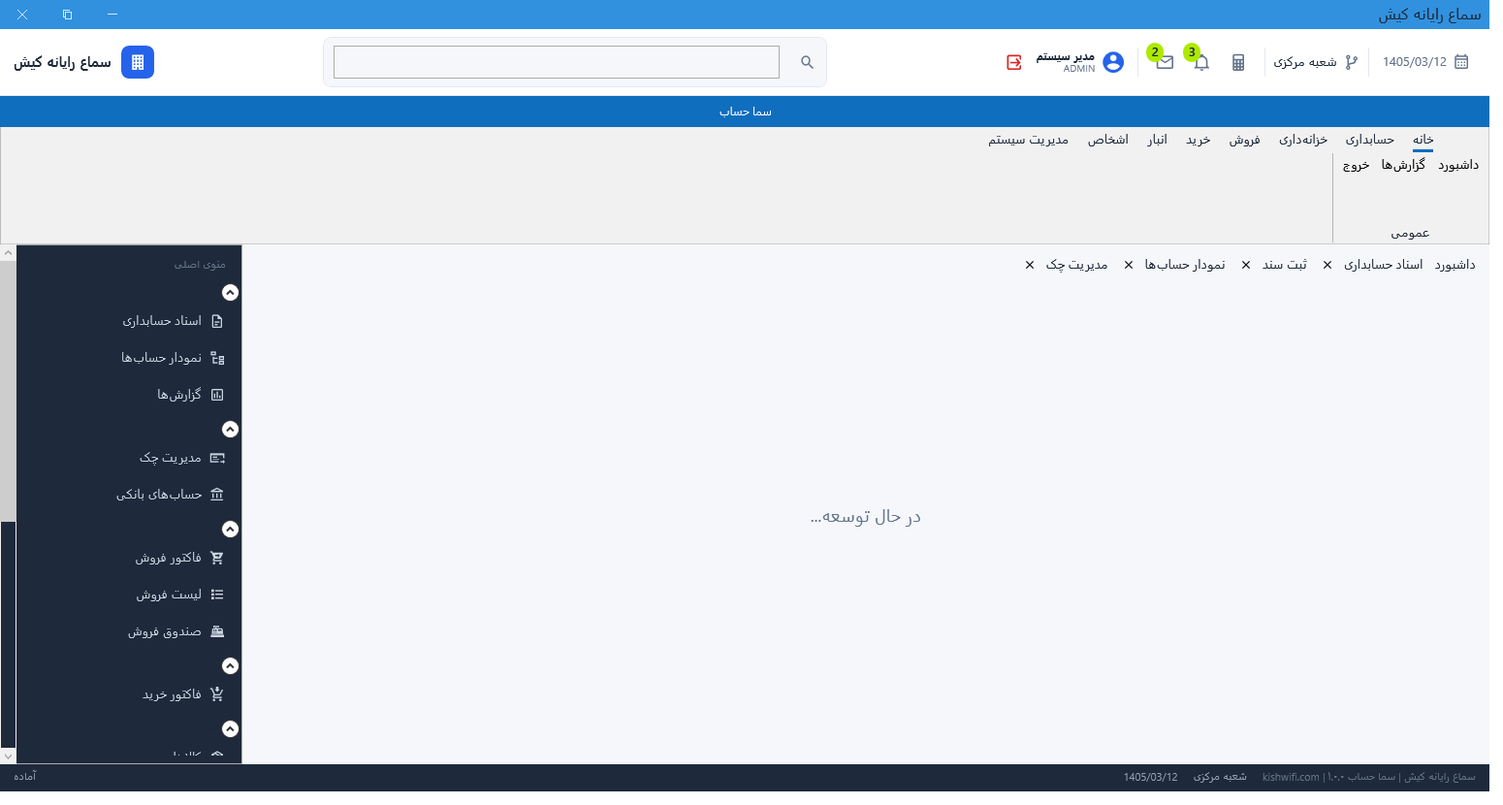
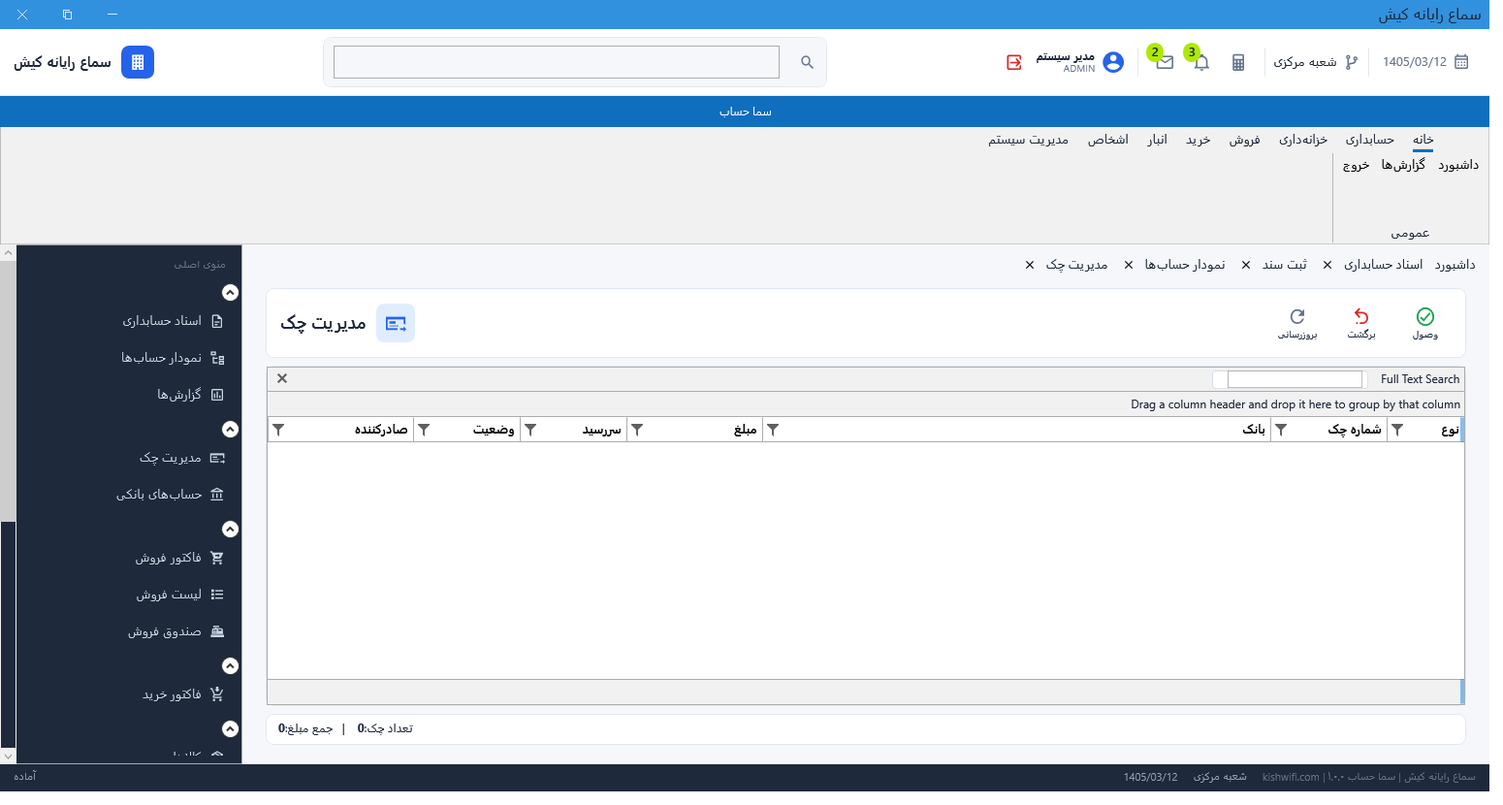
ERP redesign phase 3: full RadGridView features + real list grids
- Accounting voucher grid: add حساب کل/معین/تفصیلی columns (derived from the
  account code segments) + column footers with SumFunction totals on بدهکار/بستانکار
  (classic accounting totals-at-bottom).
- Enable ShowSearchPanel + ShowColumnFooters + Sum aggregates on the main list
  grids (products, suppliers, vouchers, bank accounts, warehouses, ...).
- Replace 4 'under construction' placeholder list screens with full RadGridView
  views bound to their existing data: مشتریان (Customers), مدیریت چک (Cheques),
  کارکنان (Employees), لیست فروش (Sales invoices) — each with search panel,
  grouping, column filters, frozen columns and footer totals.

Verified: builds 0 errors; Customers screen shows real grid with search/group/
filter + footer sum (مانده 137,000,000). Screenshots regenerated.

diff --git a/src/SamaHesab.WPF/Views/Sales/SalesInvoiceListView.xaml b/src/SamaHesab.WPF/Views/Sales/SalesInvoiceListView.xaml
@@ -1,11 +1,72 @@
 <UserControl x:Class="SamaHesab.WPF.Views.Sales.SalesInvoiceListView"
              xmlns="http://schemas.microsoft.com/winfx/2006/xaml/presentation"
              xmlns:x="http://schemas.microsoft.com/winfx/2006/xaml"
+             xmlns:materialDesign="http://materialdesigninxaml.net/winfx/xaml/themes"
+             xmlns:telerik="http://schemas.telerik.com/2008/xaml/presentation"
              Background="{DynamicResource AppBackground}"
+             FontFamily="{StaticResource VazirFont}"
              FlowDirection="RightToLeft">
-    <Grid>
-        <TextBlock Text="در حال توسعه..." HorizontalAlignment="Center" VerticalAlignment="Center"
-                   FontFamily="{StaticResource VazirFont}" FontSize="18"
-                   Foreground="{DynamicResource SecondaryText}"/>
+    <Grid Margin="6">
+        <Grid.RowDefinitions>
+            <RowDefinition Height="Auto"/>
+            <RowDefinition Height="*"/>
+            <RowDefinition Height="Auto"/>
+        </Grid.RowDefinitions>
+
+        <Border Grid.Row="0" Style="{StaticResource FormSectionCard}" Padding="8">
+            <DockPanel>
+                <StackPanel DockPanel.Dock="Right" Orientation="Horizontal" VerticalAlignment="Center" Margin="6,0">
+                    <Border Width="40" Height="40" CornerRadius="8" Background="#E0EDFF">
+                        <materialDesign:PackIcon Kind="FormatListBulletedSquare" Width="22" Height="22"
+                                                 Foreground="{DynamicResource PrimaryAccent}"
+                                                 HorizontalAlignment="Center" VerticalAlignment="Center"/>
+                    </Border>
+                    <TextBlock Text="لیست فاکتورهای فروش" FontSize="18" FontWeight="Bold" VerticalAlignment="Center" Margin="10,0,0,0"/>
+                </StackPanel>
+                <StackPanel DockPanel.Dock="Left" Orientation="Horizontal">
+                    <Button Style="{StaticResource ToolbarButton}" Command="{Binding NewInvoiceCommand}">
+                        <StackPanel><materialDesign:PackIcon Kind="CartPlus" Width="22" Height="22" HorizontalAlignment="Center" Foreground="{DynamicResource PrimaryAccent}"/><TextBlock Text="فاکتور جدید" FontSize="10" TextAlignment="Center" Margin="0,2,0,0"/></StackPanel>
+                    </Button>
+                    <Button Style="{StaticResource ToolbarButton}" Command="{Binding PrintCommand}">
+                        <StackPanel><materialDesign:PackIcon Kind="PrinterOutline" Width="22" Height="22" HorizontalAlignment="Center" Foreground="{DynamicResource SecondaryText}"/><TextBlock Text="چاپ" FontSize="10" TextAlignment="Center" Margin="0,2,0,0"/></StackPanel>
+                    </Button>
+                    <Button Style="{StaticResource ToolbarButton}" Command="{Binding ExportExcelCommand}">
+                        <StackPanel><materialDesign:PackIcon Kind="MicrosoftExcel" Width="22" Height="22" HorizontalAlignment="Center" Foreground="{DynamicResource SuccessColor}"/><TextBlock Text="خروجی اکسل" FontSize="10" TextAlignment="Center" Margin="0,2,0,0"/></StackPanel>
+                    </Button>
+                </StackPanel>
+            </DockPanel>
+        </Border>
+
+        <Border Grid.Row="1" Style="{StaticResource FormSectionCard}" Padding="0">
+            <telerik:RadGridView ItemsSource="{Binding Invoices}" AutoGenerateColumns="False"
+                                 ShowSearchPanel="True" IsReadOnly="True" CanUserFreezeColumns="True"
+                                 ShowGroupPanel="True" ShowColumnFooters="True" RowIndicatorVisibility="Collapsed"
+                                 FontFamily="{StaticResource VazirFont}">
+                <telerik:RadGridView.Columns>
+                    <telerik:GridViewDataColumn Header="شماره" DataMemberBinding="{Binding Number}" Width="110"/>
+                    <telerik:GridViewDataColumn Header="تاریخ" DataMemberBinding="{Binding Date}" Width="110"/>
+                    <telerik:GridViewDataColumn Header="مشتری" DataMemberBinding="{Binding CustomerName}" Width="*"/>
+                    <telerik:GridViewDataColumn Header="مبلغ کل" DataMemberBinding="{Binding Total}" DataFormatString="{}{0:#,##0}" Width="140">
+                        <telerik:GridViewDataColumn.AggregateFunctions>
+                            <telerik:SumFunction ResultFormatString="{}{0:#,##0}"/>
+                        </telerik:GridViewDataColumn.AggregateFunctions>
+                    </telerik:GridViewDataColumn>
+                    <telerik:GridViewDataColumn Header="پرداختی" DataMemberBinding="{Binding Paid}" DataFormatString="{}{0:#,##0}" Width="130"/>
+                    <telerik:GridViewDataColumn Header="مانده" DataMemberBinding="{Binding Remain}" DataFormatString="{}{0:#,##0}" Width="130">
+                        <telerik:GridViewDataColumn.AggregateFunctions>
+                            <telerik:SumFunction ResultFormatString="{}{0:#,##0}"/>
+                        </telerik:GridViewDataColumn.AggregateFunctions>
+                    </telerik:GridViewDataColumn>
+                    <telerik:GridViewDataColumn Header="وضعیت" DataMemberBinding="{Binding Status}" Width="100"/>
+                </telerik:RadGridView.Columns>
+            </telerik:RadGridView>
+        </Border>
+
+        <Border Grid.Row="2" Style="{StaticResource FormSectionCard}" Padding="12,8">
+            <TextBlock FontSize="12" HorizontalAlignment="Right">
+                <Run Text="تعداد فاکتور:"/><Run Text="{Binding TotalCount}" FontWeight="Bold"/>
+                <Run Text="   |   جمع مبلغ:"/><Run Text="{Binding TotalAmount, StringFormat={}{0:#,##0}}" FontWeight="Bold"/>
+            </TextBlock>
+        </Border>
     </Grid>
 </UserControl>

diff --git a/src/SamaHesab.WPF/Views/CRM/CustomerListView.xaml b/src/SamaHesab.WPF/Views/CRM/CustomerListView.xaml
@@ -1,11 +1,78 @@
 <UserControl x:Class="SamaHesab.WPF.Views.CRM.CustomerListView"
              xmlns="http://schemas.microsoft.com/winfx/2006/xaml/presentation"
              xmlns:x="http://schemas.microsoft.com/winfx/2006/xaml"
+             xmlns:materialDesign="http://materialdesigninxaml.net/winfx/xaml/themes"
+             xmlns:telerik="http://schemas.telerik.com/2008/xaml/presentation"
              Background="{DynamicResource AppBackground}"
+             FontFamily="{StaticResource VazirFont}"
              FlowDirection="RightToLeft">
-    <Grid>
-        <TextBlock Text="در حال توسعه..." HorizontalAlignment="Center" VerticalAlignment="Center"
-                   FontFamily="{StaticResource VazirFont}" FontSize="18"
-                   Foreground="{DynamicResource SecondaryText}"/>
+    <Grid Margin="6">
+        <Grid.RowDefinitions>
+            <RowDefinition Height="Auto"/>
+            <RowDefinition Height="Auto"/>
+            <RowDefinition Height="*"/>
+            <RowDefinition Height="Auto"/>
+        </Grid.RowDefinitions>
+
+        <Border Grid.Row="0" Style="{StaticResource FormSectionCard}" Padding="8">
+            <DockPanel>
+                <StackPanel DockPanel.Dock="Right" Orientation="Horizontal" VerticalAlignment="Center" Margin="6,0">
+                    <Border Width="40" Height="40" CornerRadius="8" Background="#E0EDFF">
+                        <materialDesign:PackIcon Kind="AccountGroupOutline" Width="22" Height="22"
+                                                 Foreground="{DynamicResource PrimaryAccent}"
+                                                 HorizontalAlignment="Center" VerticalAlignment="Center"/>
+                    </Border>
+                    <TextBlock Text="مشتریان" FontSize="18" FontWeight="Bold" VerticalAlignment="Center" Margin="10,0,0,0"/>
+                </StackPanel>
+                <StackPanel DockPanel.Dock="Left" Orientation="Horizontal">
+                    <Button Style="{StaticResource ToolbarButton}" Command="{Binding NewCustomerCommand}">
+                        <StackPanel><materialDesign:PackIcon Kind="AccountPlusOutline" Width="22" Height="22" HorizontalAlignment="Center" Foreground="{DynamicResource PrimaryAccent}"/><TextBlock Text="مشتری جدید" FontSize="10" TextAlignment="Center" Margin="0,2,0,0"/></StackPanel>
+                    </Button>
+                    <Button Style="{StaticResource ToolbarButton}" Command="{Binding ExportCommand}">
+                        <StackPanel><materialDesign:PackIcon Kind="MicrosoftExcel" Width="22" Height="22" HorizontalAlignment="Center" Foreground="{DynamicResource SuccessColor}"/><TextBlock Text="خروجی اکسل" FontSize="10" TextAlignment="Center" Margin="0,2,0,0"/></StackPanel>
+                    </Button>
+                </StackPanel>
+            </DockPanel>
+        </Border>
+
+        <Border Grid.Row="1" Style="{StaticResource FormSectionCard}">
+            <DockPanel>
+                <Button DockPanel.Dock="Left" Style="{StaticResource SecondaryButton}" Height="36" Width="44"
+                        Margin="6,0,0,0" Command="{Binding SearchCommand}">
+                    <materialDesign:PackIcon Kind="Magnify" Width="18" Height="18"/>
+                </Button>
+                <StackPanel>
+                    <TextBlock Text="جستجو (کد / نام / موبایل)" Style="{StaticResource FieldCaption}"/>
+                    <TextBox Text="{Binding SearchText, UpdateSourceTrigger=PropertyChanged}">
+                        <TextBox.InputBindings><KeyBinding Key="Return" Command="{Binding SearchCommand}"/></TextBox.InputBindings>
+                    </TextBox>
+                </StackPanel>
+            </DockPanel>
+        </Border>
+
+        <Border Grid.Row="2" Style="{StaticResource FormSectionCard}" Padding="0">
+            <telerik:RadGridView ItemsSource="{Binding Customers}" AutoGenerateColumns="False"
+                                 ShowSearchPanel="True" IsReadOnly="True" CanUserFreezeColumns="True"
+                                 ShowGroupPanel="True" ShowColumnFooters="True" RowIndicatorVisibility="Collapsed"
+                                 FontFamily="{StaticResource VazirFont}">
+                <telerik:RadGridView.Columns>
+                    <telerik:GridViewDataColumn Header="کد" DataMemberBinding="{Binding Code}" Width="90"/>
+                    <telerik:GridViewDataColumn Header="نام / شرکت" DataMemberBinding="{Binding Name}" Width="2*"/>
+                    <telerik:GridViewDataColumn Header="موبایل" DataMemberBinding="{Binding Mobile}" Width="130"/>
+                    <telerik:GridViewDataColumn Header="سطح قیمت" DataMemberBinding="{Binding PriceLevel}" Width="100"/>
+                    <telerik:GridViewDataColumn Header="مانده حساب" DataMemberBinding="{Binding Balance}" DataFormatString="{}{0:#,##0}" Width="150">
+                        <telerik:GridViewDataColumn.AggregateFunctions>
+                            <telerik:SumFunction ResultFormatString="{}{0:#,##0}"/>
+                        </telerik:GridViewDataColumn.AggregateFunctions>
+                    </telerik:GridViewDataColumn>
+                </telerik:RadGridView.Columns>
+            </telerik:RadGridView>
+        </Border>
+
+        <Border Grid.Row="3" Style="{StaticResource FormSectionCard}" Padding="12,8">
+            <TextBlock FontSize="12" HorizontalAlignment="Right">
+                <Run Text="تعداد مشتریان:"/><Run Text="{Binding TotalCount}" FontWeight="Bold"/>
+            </TextBlock>
+        </Border>
     </Grid>
 </UserControl>

diff --git a/src/SamaHesab.WPF/Views/Accounting/ChequeListView.xaml b/src/SamaHesab.WPF/Views/Accounting/ChequeListView.xaml
@@ -1,11 +1,68 @@
 <UserControl x:Class="SamaHesab.WPF.Views.Accounting.ChequeListView"
              xmlns="http://schemas.microsoft.com/winfx/2006/xaml/presentation"
              xmlns:x="http://schemas.microsoft.com/winfx/2006/xaml"
+             xmlns:materialDesign="http://materialdesigninxaml.net/winfx/xaml/themes"
+             xmlns:telerik="http://schemas.telerik.com/2008/xaml/presentation"
              Background="{DynamicResource AppBackground}"
+             FontFamily="{StaticResource VazirFont}"
              FlowDirection="RightToLeft">
-    <Grid>
-        <TextBlock Text="در حال توسعه..." HorizontalAlignment="Center" VerticalAlignment="Center"
-                   FontFamily="{StaticResource VazirFont}" FontSize="18"
-                   Foreground="{DynamicResource SecondaryText}"/>
+    <Grid Margin="6">
+        <Grid.RowDefinitions>
+            <RowDefinition Height="Auto"/>
+            <RowDefinition Height="*"/>
+            <RowDefinition Height="Auto"/>
+        </Grid.RowDefinitions>
+
+        <Border Grid.Row="0" Style="{StaticResource FormSectionCard}" Padding="8">
+            <DockPanel>
+                <StackPanel DockPanel.Dock="Right" Orientation="Horizontal" VerticalAlignment="Center" Margin="6,0">
+                    <Border Width="40" Height="40" CornerRadius="8" Background="#E0EDFF">
+                        <materialDesign:PackIcon Kind="CheckbookArrowRight" Width="22" Height="22"
+                                                 Foreground="{DynamicResource PrimaryAccent}"
+                                                 HorizontalAlignment="Center" VerticalAlignment="Center"/>
+                    </Border>
+                    <TextBlock Text="مدیریت چک" FontSize="18" FontWeight="Bold" VerticalAlignment="Center" Margin="10,0,0,0"/>
+                </StackPanel>
+                <StackPanel DockPanel.Dock="Left" Orientation="Horizontal">
+                    <Button Style="{StaticResource ToolbarButton}" Command="{Binding ClearChequeCommand}">
+                        <StackPanel><materialDesign:PackIcon Kind="CheckCircleOutline" Width="22" Height="22" HorizontalAlignment="Center" Foreground="{DynamicResource SuccessColor}"/><TextBlock Text="وصول" FontSize="10" TextAlignment="Center" Margin="0,2,0,0"/></StackPanel>
+                    </Button>
+                    <Button Style="{StaticResource ToolbarButton}" Command="{Binding ReturnChequeCommand}">
+                        <StackPanel><materialDesign:PackIcon Kind="UndoVariant" Width="22" Height="22" HorizontalAlignment="Center" Foreground="{DynamicResource DangerColor}"/><TextBlock Text="برگشت" FontSize="10" TextAlignment="Center" Margin="0,2,0,0"/></StackPanel>
+                    </Button>
+                    <Button Style="{StaticResource ToolbarButton}" Command="{Binding SearchCommand}">
+                        <StackPanel><materialDesign:PackIcon Kind="Refresh" Width="22" Height="22" HorizontalAlignment="Center" Foreground="{DynamicResource SecondaryText}"/><TextBlock Text="بروزرسانی" FontSize="10" TextAlignment="Center" Margin="0,2,0,0"/></StackPanel>
+                    </Button>
+                </StackPanel>
+            </DockPanel>
+        </Border>
+
+        <Border Grid.Row="1" Style="{StaticResource FormSectionCard}" Padding="0">
+            <telerik:RadGridView ItemsSource="{Binding Cheques}" AutoGenerateColumns="False"
+                                 ShowSearchPanel="True" IsReadOnly="True" CanUserFreezeColumns="True"
+                                 ShowGroupPanel="True" ShowColumnFooters="True" RowIndicatorVisibility="Collapsed"
+                                 FontFamily="{StaticResource VazirFont}">
+                <telerik:RadGridView.Columns>
+                    <telerik:GridViewDataColumn Header="نوع" DataMemberBinding="{Binding Type}" Width="80"/>
+                    <telerik:GridViewDataColumn Header="شماره چک" DataMemberBinding="{Binding Number}" Width="120"/>
+                    <telerik:GridViewDataColumn Header="بانک" DataMemberBinding="{Binding Bank}" Width="*"/>
+                    <telerik:GridViewDataColumn Header="مبلغ" DataMemberBinding="{Binding Amount}" DataFormatString="{}{0:#,##0}" Width="140">
+                        <telerik:GridViewDataColumn.AggregateFunctions>
+                            <telerik:SumFunction ResultFormatString="{}{0:#,##0}"/>
+                        </telerik:GridViewDataColumn.AggregateFunctions>
+                    </telerik:GridViewDataColumn>
+                    <telerik:GridViewDataColumn Header="سررسید" DataMemberBinding="{Binding DueDate}" Width="110"/>
+                    <telerik:GridViewDataColumn Header="وضعیت" DataMemberBinding="{Binding Status}" Width="110"/>
+                    <telerik:GridViewDataColumn Header="صادرکننده" DataMemberBinding="{Binding IssuedBy}" Width="150"/>
+                </telerik:RadGridView.Columns>
+            </telerik:RadGridView>
+        </Border>
+
+        <Border Grid.Row="2" Style="{StaticResource FormSectionCard}" Padding="12,8">
+            <TextBlock FontSize="12" HorizontalAlignment="Right">
+                <Run Text="تعداد چک:"/><Run Text="{Binding TotalCount}" FontWeight="Bold"/>
+                <Run Text="   |   جمع مبلغ:"/><Run Text="{Binding TotalAmount, StringFormat={}{0:#,##0}}" FontWeight="Bold"/>
+            </TextBlock>
+        </Border>
     </Grid>
 </UserControl>

diff --git a/src/SamaHesab.WPF/Views/HRM/EmployeeListView.xaml b/src/SamaHesab.WPF/Views/HRM/EmployeeListView.xaml
@@ -1,11 +1,60 @@
 <UserControl x:Class="SamaHesab.WPF.Views.HRM.EmployeeListView"
              xmlns="http://schemas.microsoft.com/winfx/2006/xaml/presentation"
              xmlns:x="http://schemas.microsoft.com/winfx/2006/xaml"
+             xmlns:materialDesign="http://materialdesigninxaml.net/winfx/xaml/themes"
+             xmlns:telerik="http://schemas.telerik.com/2008/xaml/presentation"
              Background="{DynamicResource AppBackground}"
+             FontFamily="{StaticResource VazirFont}"
              FlowDirection="RightToLeft">
-    <Grid>
-        <TextBlock Text="در حال توسعه..." HorizontalAlignment="Center" VerticalAlignment="Center"
-                   FontFamily="{StaticResource VazirFont}" FontSize="18"
-                   Foreground="{DynamicResource SecondaryText}"/>
+    <Grid Margin="6">
+        <Grid.RowDefinitions>
+            <RowDefinition Height="Auto"/>
+            <RowDefinition Height="*"/>
+            <RowDefinition Height="Auto"/>
+        </Grid.RowDefinitions>
+
+        <Border Grid.Row="0" Style="{StaticResource FormSectionCard}" Padding="8">
+            <DockPanel>
+                <StackPanel DockPanel.Dock="Right" Orientation="Horizontal" VerticalAlignment="Center" Margin="6,0">
+                    <Border Width="40" Height="40" CornerRadius="8" Background="#E0EDFF">
+                        <materialDesign:PackIcon Kind="AccountTieOutline" Width="22" Height="22"
+                                                 Foreground="{DynamicResource PrimaryAccent}"
+                                                 HorizontalAlignment="Center" VerticalAlignment="Center"/>
+                    </Border>
+                    <TextBlock Text="کارکنان" FontSize="18" FontWeight="Bold" VerticalAlignment="Center" Margin="10,0,0,0"/>
+                </StackPanel>
+                <StackPanel DockPanel.Dock="Left" Orientation="Horizontal">
+                    <Button Style="{StaticResource ToolbarButton}" Command="{Binding AddNewCommand}">
+                        <StackPanel><materialDesign:PackIcon Kind="AccountPlusOutline" Width="22" Height="22" HorizontalAlignment="Center" Foreground="{DynamicResource PrimaryAccent}"/><TextBlock Text="کارمند جدید" FontSize="10" TextAlignment="Center" Margin="0,2,0,0"/></StackPanel>
+                    </Button>
+                </StackPanel>
+            </DockPanel>
+        </Border>
+
+        <Border Grid.Row="1" Style="{StaticResource FormSectionCard}" Padding="0">
+            <telerik:RadGridView ItemsSource="{Binding Employees}" AutoGenerateColumns="False"
+                                 ShowSearchPanel="True" IsReadOnly="True" CanUserFreezeColumns="True"
+                                 ShowGroupPanel="True" ShowColumnFooters="True" RowIndicatorVisibility="Collapsed"
+                                 FontFamily="{StaticResource VazirFont}">
+                <telerik:RadGridView.Columns>
+                    <telerik:GridViewDataColumn Header="کد" DataMemberBinding="{Binding Code}" Width="80"/>
+                    <telerik:GridViewDataColumn Header="نام" DataMemberBinding="{Binding FirstName}" Width="*"/>
+                    <telerik:GridViewDataColumn Header="نام خانوادگی" DataMemberBinding="{Binding LastName}" Width="*"/>
+                    <telerik:GridViewDataColumn Header="کد ملی" DataMemberBinding="{Binding NationalCode}" Width="120"/>
+                    <telerik:GridViewDataColumn Header="موبایل" DataMemberBinding="{Binding Mobile}" Width="120"/>
+                    <telerik:GridViewDataColumn Header="نوع قرارداد" DataMemberBinding="{Binding ContractType}" Width="100"/>
+                    <telerik:GridViewDataColumn Header="تاریخ استخدام" DataMemberBinding="{Binding HireDate}" Width="110"/>
+                    <telerik:GridViewDataColumn Header="حقوق پایه" DataMemberBinding="{Binding BaseSalary}" DataFormatString="{}{0:#,##0}" Width="140">
+                        <telerik:GridViewDataColumn.AggregateFunctions>
+                            <telerik:SumFunction ResultFormatString="{}{0:#,##0}"/>
+                        </telerik:GridViewDataColumn.AggregateFunctions>
+                    </telerik:GridViewDataColumn>
+                </telerik:RadGridView.Columns>
+            </telerik:RadGridView>
+        </Border>
+
+        <Border Grid.Row="2" Style="{StaticResource FormSectionCard}" Padding="12,8">
+            <TextBlock FontSize="12" HorizontalAlignment="Right" Text="فهرست کارکنان فعال"/>
+        </Border>
     </Grid>
 </UserControl>

diff --git a/src/SamaHesab.WPF/Views/Accounting/VoucherEditView.xaml b/src/SamaHesab.WPF/Views/Accounting/VoucherEditView.xaml
@@ -137,14 +137,24 @@
         <Border Grid.Row="3" Style="{StaticResource FormSectionCard}" Padding="0">
             <telerik:RadGridView ItemsSource="{Binding Items}" AutoGenerateColumns="False"
                       CanUserInsertRows="False" CanUserDeleteRows="False" RowIndicatorVisibility="Collapsed"
-                      ShowGroupPanel="False" FontFamily="{StaticResource VazirFont}">
+                      ShowGroupPanel="False" ShowColumnFooters="True" FontFamily="{StaticResource VazirFont}">
                 <telerik:RadGridView.Columns>
-                    <telerik:GridViewDataColumn Header="ردیف" DataMemberBinding="{Binding RowNumber}" Width="50" IsReadOnly="True"/>
-                    <telerik:GridViewDataColumn Header="کد حساب" DataMemberBinding="{Binding AccountCode}" Width="100" IsReadOnly="True"/>
+                    <telerik:GridViewDataColumn Header="ردیف" DataMemberBinding="{Binding RowNumber}" Width="48" IsReadOnly="True"/>
+                    <telerik:GridViewDataColumn Header="حساب کل" DataMemberBinding="{Binding Kol}" Width="70" IsReadOnly="True"/>
+                    <telerik:GridViewDataColumn Header="حساب معین" DataMemberBinding="{Binding Moein}" Width="90" IsReadOnly="True"/>
+                    <telerik:GridViewDataColumn Header="تفصیلی" DataMemberBinding="{Binding Tafsili}" Width="100" IsReadOnly="True"/>
                     <telerik:GridViewDataColumn Header="نام حساب" DataMemberBinding="{Binding AccountName}" Width="*" IsReadOnly="True"/>
                     <telerik:GridViewDataColumn Header="شرح" DataMemberBinding="{Binding Description}" Width="2*"/>
-                    <telerik:GridViewDataColumn Header="بدهکار" DataMemberBinding="{Binding Debit}" DataFormatString="{}{0:#,##0}" Width="130"/>
-                    <telerik:GridViewDataColumn Header="بستانکار" DataMemberBinding="{Binding Credit}" DataFormatString="{}{0:#,##0}" Width="130"/>
+                    <telerik:GridViewDataColumn Header="بدهکار" DataMemberBinding="{Binding Debit}" DataFormatString="{}{0:#,##0}" Width="130">
+                        <telerik:GridViewDataColumn.AggregateFunctions>
+                            <telerik:SumFunction ResultFormatString="{}{0:#,##0}"/>
+                        </telerik:GridViewDataColumn.AggregateFunctions>
+                    </telerik:GridViewDataColumn>
+                    <telerik:GridViewDataColumn Header="بستانکار" DataMemberBinding="{Binding Credit}" DataFormatString="{}{0:#,##0}" Width="130">
+                        <telerik:GridViewDataColumn.AggregateFunctions>
+                            <telerik:SumFunction ResultFormatString="{}{0:#,##0}"/>
+                        </telerik:GridViewDataColumn.AggregateFunctions>
+                    </telerik:GridViewDataColumn>
                     <telerik:GridViewDataColumn Header="حذف" Width="50" IsReadOnly="True">
                         <telerik:GridViewDataColumn.CellTemplate>
                             <DataTemplate>

diff --git a/src/SamaHesab.WPF/Views/CRM/SupplierListView.xaml b/src/SamaHesab.WPF/Views/CRM/SupplierListView.xaml
@@ -60,7 +60,7 @@
 
         <!-- Grid -->
         <Border Grid.Row="2" Style="{StaticResource FormSectionCard}" Padding="0">
-            <telerik:RadGridView ItemsSource="{Binding Suppliers}" AutoGenerateColumns="False"
+            <telerik:RadGridView ItemsSource="{Binding Suppliers}" AutoGenerateColumns="False" ShowSearchPanel="True"
                                  IsReadOnly="True" CanUserFreezeColumns="True" ShowGroupPanel="True"
                                  RowIndicatorVisibility="Collapsed" FontFamily="{StaticResource VazirFont}">
                 <telerik:RadGridView.Columns>

diff --git a/src/SamaHesab.WPF/Views/Accounting/VoucherListView.xaml b/src/SamaHesab.WPF/Views/Accounting/VoucherListView.xaml
@@ -112,7 +112,7 @@
         <telerik:RadGridView Grid.Row="3"
                   ItemsSource="{Binding Vouchers}"
                   SelectedItem="{Binding SelectedVoucher}"
-                  AutoGenerateColumns="False" CanUserInsertRows="False" CanUserDeleteRows="False"
+                  AutoGenerateColumns="False" ShowSearchPanel="True" CanUserInsertRows="False" CanUserDeleteRows="False"
                   RowIndicatorVisibility="Collapsed" ShowGroupPanel="True"
                   FontFamily="{StaticResource VazirFont}">
             <telerik:RadGridView.Columns>

diff --git a/src/SamaHesab.WPF/Views/Inventory/WarehouseView.xaml b/src/SamaHesab.WPF/Views/Inventory/WarehouseView.xaml
@@ -30,7 +30,7 @@
         </Border>
 
         <Border Grid.Row="1" Style="{StaticResource FormSectionCard}" Padding="0">
-            <telerik:RadGridView ItemsSource="{Binding Warehouses}" AutoGenerateColumns="False"
+            <telerik:RadGridView ItemsSource="{Binding Warehouses}" AutoGenerateColumns="False" ShowSearchPanel="True"
                                  IsReadOnly="True" RowIndicatorVisibility="Collapsed" ShowGroupPanel="True"
                                  FontFamily="{StaticResource VazirFont}">
                 <telerik:RadGridView.Columns>

diff --git a/src/SamaHesab.WPF/Views/Accounting/BankAccountView.xaml b/src/SamaHesab.WPF/Views/Accounting/BankAccountView.xaml
@@ -30,7 +30,7 @@
         </Border>
 
         <Border Grid.Row="1" Style="{StaticResource FormSectionCard}" Padding="0">
-            <telerik:RadGridView ItemsSource="{Binding Accounts}" AutoGenerateColumns="False"
+            <telerik:RadGridView ItemsSource="{Binding Accounts}" AutoGenerateColumns="False" ShowSearchPanel="True"
                                  IsReadOnly="True" RowIndicatorVisibility="Collapsed" ShowGroupPanel="True"
                                  FontFamily="{StaticResource VazirFont}">
                 <telerik:RadGridView.Columns>

diff --git a/src/SamaHesab.WPF/Views/Inventory/ProductListView.xaml b/src/SamaHesab.WPF/Views/Inventory/ProductListView.xaml
@@ -83,7 +83,7 @@
             <telerik:RadGridView x:Name="grid"
                                  ItemsSource="{Binding Products}"
                                  SelectedItem="{Binding SelectedProduct}"
-                                 AutoGenerateColumns="False"
+                                 AutoGenerateColumns="False" ShowSearchPanel="True"
                                  IsReadOnly="True"
                                  CanUserFreezeColumns="True"
                                  ShowGroupPanel="True"

diff --git a/src/SamaHesab.WPF/ViewModels/Accounting/VoucherEditViewModel.cs b/src/SamaHesab.WPF/ViewModels/Accounting/VoucherEditViewModel.cs
@@ -204,6 +204,14 @@ public partial class VoucherItemRow : ObservableObject
     [ObservableProperty] private string? _description;
     [ObservableProperty] private decimal _debit;
     [ObservableProperty] private decimal _credit;
+
+    // Iranian chart segments derived from the account code (e.g. 1-03-001)
+    public string Kol => (AccountCode ?? "").Split('-').ElementAtOrDefault(0) ?? "";
+    public string Moein
+    {
+        get { var p = (AccountCode ?? "").Split('-'); return p.Length >= 2 ? $"{p[0]}-{p[1]}" : (AccountCode ?? ""); }
+    }
+    public string Tafsili => AccountCode ?? "";
 }
 
 public record VoucherTypeItem(int Id, string Name);
